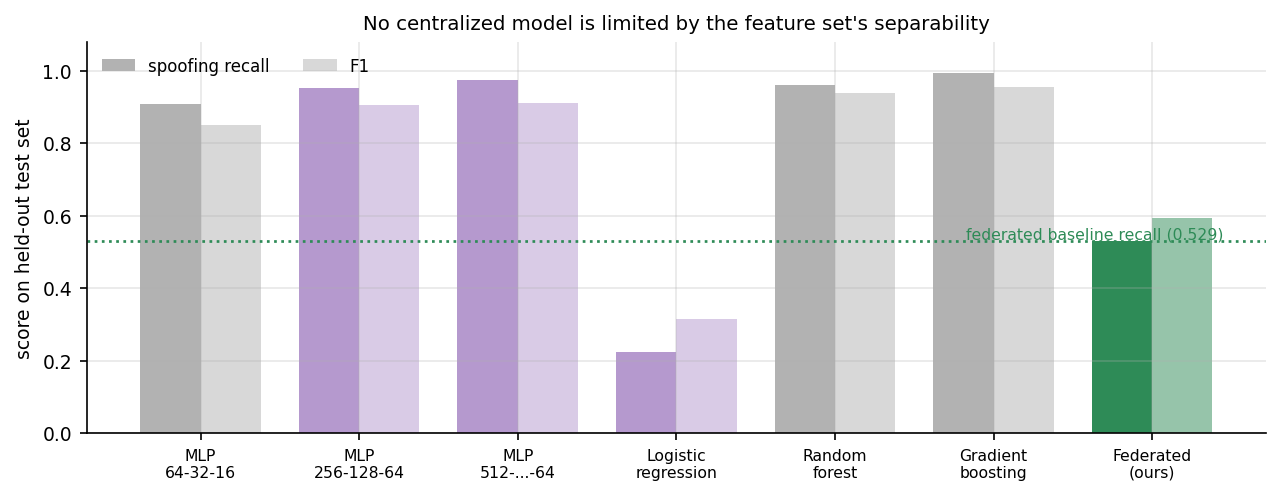
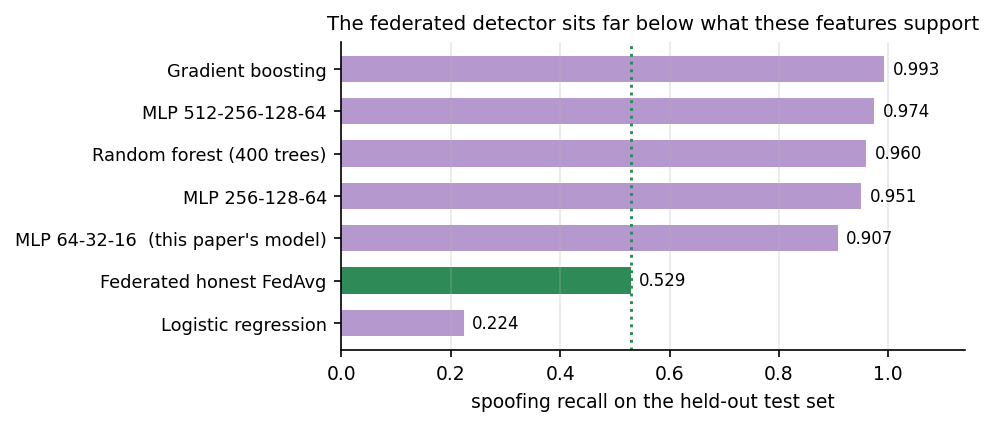
week12: redraw the ceiling figure and tighten table typography
Figure. The detector-ceiling chart was seven categories of paired
vertical bars inside a 3.4in column, which forced the model names to
rotate and shrink past legibility. Wrong chart form for the space:
turned horizontal so each name reads left to right at full size,
dropped the F1 series since the table carries it and recall alone makes
the point, sorted by value, and labelled each bar directly.

Sorting exposed a factual error in the draft title, which read "every
centralized model clears the federated baseline". Logistic regression
does not (0.224 against 0.529); it cannot represent the boundary. Title
and caption now say what is actually drawn.

Tables. Two changes that separate these from published ones:

- Numeric columns were centred, so with mixed signs (+0.2415 beside
  -0.0265) and mixed widths (1.0 beside 204.4) the decimal points sat
  ragged. Right-aligned throughout; every value in a column already
  carries the same decimal count, so the decimals now line up.
- The non-IID table split its condition label across three body rows by
  hand. Replaced with multirow, which is the proper tool and centres
  the label against its block.

Also trimmed five captions that had grown to four or five lines
explaining methodology that belongs in the body.

diff --git a/weeks/week12-paper/main.tex b/weeks/week12-paper/main.tex
@@ -11,6 +11,7 @@
 \usepackage{graphicx}
 \usepackage{cite}
 \usepackage{booktabs}
+\usepackage{multirow}
 
 
 \hyphenation{op-tical net-works semi-conduc-tor IEEE-Xplore}
@@ -388,12 +389,12 @@ The case for behavioral trust therefore does not rest on the IID headline number
 
 \begin{table*}[!t]
 \renewcommand{\arraystretch}{1.25}
-\caption{Comparison With Published Baselines on an Identical Pipeline (mean $\pm$ std, $n=3$). Raw BSR Is Reported Beside Lift Throughout. Trust Is Normalized so Uniform Is $0.100$; ``Detect'' and ``False-Flag'' Are the Fractions of Attacker and Honest Client-Rounds Held Below Half the Uniform Weight. Krum Makes a Selection Rather Than a per-Client Trust Assignment, so a False-Flag Rate Is Not Comparably Defined for It.}
+\caption{Comparison With Published Baselines on an Identical Pipeline (mean $\pm$ std, $n=3$). ``Detect'' and ``False-Flag'' Are the Fractions of Attacker and Honest Client-Rounds Held Below Half the Uniform Weight; Krum Selects Rather Than Scores, so a False-Flag Rate Is Not Defined for It.}
 \label{tab:benchmark}
 \centering
 \footnotesize
 \setlength{\tabcolsep}{3.5pt}
-\begin{tabular}{@{}l cccc cc cc c@{}}
+\begin{tabular}{@{}l rrrr rr rr r@{}}
 \toprule
 \textbf{Method} & \textbf{Clean} & \textbf{Recall} & \textbf{F1} & \textbf{Bal.\ Acc} &
 \textbf{BSR} & \textbf{Lift} & \textbf{Detect} & \textbf{False-Flag} & \textbf{ms/round} \\
@@ -439,33 +440,36 @@ A fourth level ($\alpha = 1$) was also run and is in the artifact. There the bas
 
 \begin{table*}[!t]
 \renewcommand{\arraystretch}{1.2}
-\caption{Non-IID Sweep Over Client Class-Ratio Skew (mean $\pm$ std, $n=3$). Uniform Trust Is $0.100$. Rules Without a per-Client Weight Have No Detection or False-Flag Rate. Clean Accuracy, and the $\alpha=1$ Condition Whose Honest Baseline Has Already Degraded to $0.232$ Recall, Are in the Exported CSV.}
+\caption{Non-IID Sweep Over Client Class-Ratio Skew (mean $\pm$ std, $n=3$). Uniform Trust Is $0.100$. Clean Accuracy and a Fourth, More Severe Condition Are in the Exported CSV.}
 \label{tab:noniid}
 \centering
 \footnotesize
 \setlength{\tabcolsep}{3.5pt}
-\begin{tabular}{@{}ll ccc cc cc@{}}
+\begin{tabular}{@{}ll rrr rr rr@{}}
 \toprule
 \textbf{Condition} & \textbf{Method} & \textbf{Recall} & \textbf{BSR} & \textbf{Lift} &
 \textbf{Detect} & \textbf{False-Flag} & \textbf{Atk trust} & \textbf{Hon trust} \\
 \midrule
-IID & Honest FedAvg (no attack) & $0.5292$ & $0.6367$ & $+0.0000$ & --- & --- & --- & --- \\
+\multirow{6}{*}{IID}
+    & Honest FedAvg (no attack) & $0.5292$ & $0.6367$ & $+0.0000$ & --- & --- & --- & --- \\
     & FedAvg (attacked)         & $0.3641$ & $0.8782$ & $+0.2415$ & --- & --- & --- & --- \\
     & Coordinate-wise median    & $0.5008$ & $0.7013$ & $+0.0646$ & --- & --- & --- & --- \\
     & FLTrust                   & $0.4687$ & $0.7154$ & $+0.0787$ & $84.7\%$ & $0.0\%$ & $0.0390$ & $0.1152$ \\
     & Behavioral trust (ours)   & $0.5307$ & $0.6406$ & $+0.0039$ & $100\%$ & $0.3\%$ & $0.0001$ & $0.1250$ \\
     & Trust + median (ours)     & $0.5560$ & $0.6101$ & $-0.0265$ & $100\%$ & $0.3\%$ & $0.0001$ & $0.1250$ \\
 \midrule
-Skew      & Honest FedAvg (no attack) & $0.4937$ & $0.6788$ & $+0.0000$ & --- & --- & --- & --- \\
-$\alpha{=}10$ & FedAvg (attacked)     & $0.3461$ & $0.9370$ & $+0.2583$ & --- & --- & --- & --- \\
-(mild)    & Coordinate-wise median    & $0.4487$ & $0.7498$ & $+0.0710$ & --- & --- & --- & --- \\
+\multirow{6}{*}{\shortstack[l]{Skew\\$\alpha{=}10$\\(mild)}}
+          & Honest FedAvg (no attack) & $0.4937$ & $0.6788$ & $+0.0000$ & --- & --- & --- & --- \\
+          & FedAvg (attacked)         & $0.3461$ & $0.9370$ & $+0.2583$ & --- & --- & --- & --- \\
+          & Coordinate-wise median    & $0.4487$ & $0.7498$ & $+0.0710$ & --- & --- & --- & --- \\
           & FLTrust                   & $0.4639$ & $0.7329$ & $+0.0542$ & $65.3\%$ & $8.7\%$ & $0.0429$ & $0.1143$ \\
           & Behavioral trust (ours)   & $0.3758$ & $0.9162$ & $+0.2374$ & $0.0\%$ & $0.3\%$ & $0.0950$ & $0.1013$ \\
           & Trust + median (ours)     & $0.4555$ & $0.7435$ & $+0.0647$ & $8.3\%$  & $2.1\%$ & $0.0942$ & $0.1014$ \\
 \midrule
-Skew      & Honest FedAvg (no attack) & $0.4446$ & $0.7388$ & $+0.0000$ & --- & --- & --- & --- \\
-$\alpha{=}3$ & FedAvg (attacked)      & $0.2983$ & $0.9843$ & $+0.2455$ & --- & --- & --- & --- \\
-(moderate) & Coordinate-wise median   & $0.3609$ & $0.8434$ & $+0.1046$ & --- & --- & --- & --- \\
+\multirow{6}{*}{\shortstack[l]{Skew\\$\alpha{=}3$\\(moderate)}}
+          & Honest FedAvg (no attack) & $0.4446$ & $0.7388$ & $+0.0000$ & --- & --- & --- & --- \\
+          & FedAvg (attacked)         & $0.2983$ & $0.9843$ & $+0.2455$ & --- & --- & --- & --- \\
+          & Coordinate-wise median    & $0.3609$ & $0.8434$ & $+0.1046$ & --- & --- & --- & --- \\
           & FLTrust                   & $0.4468$ & $0.7534$ & $+0.0146$ & $59.7\%$ & $22.6\%$ & $0.0434$ & $0.1141$ \\
           & Behavioral trust (ours)   & $0.2979$ & $0.9870$ & $+0.2482$ & $0.0\%$ & $0.0\%$ & $0.1025$ & $0.0994$ \\
           & Trust + median (ours)     & $0.3618$ & $0.8390$ & $+0.1002$ & $0.0\%$ & $0.0\%$ & $0.1023$ & $0.0994$ \\
@@ -493,12 +497,12 @@ One condition did not behave as intended and is reported as such. Raising model-
 
 \begin{table}[!t]
 \renewcommand{\arraystretch}{1.2}
-\caption{Does the Median Layer Help When Trust Scoring Degrades? (mean $\pm$ std, $n=3$). The Final Two Rows Are the Skew Conditions of Section~\ref{subsec:noniid}, Where the Trust Layer Fails Outright.}
+\caption{Does the Median Layer Help When Trust Scoring Degrades? (mean, $n=3$). The Final Two Rows Are the Skew Conditions of Section~\ref{subsec:noniid}, Where the Trust Layer Fails Outright.}
 \label{tab:mediannec}
 \centering
 \footnotesize
 \setlength{\tabcolsep}{3pt}
-\begin{tabular}{@{}l cccc@{}}
+\begin{tabular}{@{}l rrrr@{}}
 \toprule
 \textbf{Condition} & \textbf{Undefended} & \textbf{Trust only} & \textbf{Full} & \textbf{Median benefit} \\
 \midrule
@@ -529,7 +533,7 @@ One baseline resists this failure and we report it plainly: single-Krum stays be
 \centering
 \footnotesize
 \setlength{\tabcolsep}{4pt}
-\begin{tabular}{@{}l cccc@{}}
+\begin{tabular}{@{}l rrrr@{}}
 \toprule
 \textbf{Method} & \textbf{1 attacker} & \textbf{2} & \textbf{3} & \textbf{4} \\
 \midrule
@@ -706,12 +710,12 @@ it; establishing that is the most concrete piece of future work this paper leave
 
 \begin{table}[!t]
 \renewcommand{\arraystretch}{1.25}
-\caption{Centralized Detector Ceiling. All Rows Are Trained on the Full Client Pool With No Federation, No Attack and No Privacy Constraint, so They Upper-Bound What the Federated System Could Reach. Balanced Accuracy and Confusion Counts Are in the Exported CSV.}
+\caption{Centralized Detector Ceiling. Every Row Is Trained on the Full Client Pool With No Federation, No Attack and No Privacy Constraint, so All of Them Upper-Bound the Federated System.}
 \label{tab:ceiling}
 \centering
 \footnotesize
 \setlength{\tabcolsep}{3.5pt}
-\begin{tabular}{@{}l cccc@{}}
+\begin{tabular}{@{}l rrrr@{}}
 \toprule
 \textbf{Model} & \textbf{Clean} & \textbf{Recall} & \textbf{F1} & \textbf{BSR} \\
 \midrule
@@ -730,7 +734,7 @@ Gradient boosting          & $\mathbf{0.9615}$ & $\mathbf{0.9929}$ & $\mathbf{0.
 \begin{figure}[!t]
 \centering
 \includegraphics[width=3.4in]{figures/fig_detector_ceiling.png}
-\caption{Centralized detector ceiling. Every centralized non-linear model far exceeds the federated baseline (dotted), so the weak spoofing recall reported throughout this paper reflects the federated training configuration rather than the separability of the feature set. This bounds what the security claims may assert: the paper supports removal of attacker-induced lift, not operational detection reliability.}
+\caption{Centralized detector ceiling, spoofing recall on the held-out test set. Every centralized non-linear model far exceeds the federated baseline (dotted); only logistic regression, which cannot represent the decision boundary, falls below it. The weak recall reported throughout this paper therefore reflects the federated training configuration, not the separability of the feature set.}
 \label{fig:ceiling}
 \end{figure}
 
@@ -759,12 +763,12 @@ subsample or batched across rounds; we have not tested either, and make no claim
 
 \begin{table}[!t]
 \renewcommand{\arraystretch}{1.25}
-\caption{Server-Side Cost on Both Denominators (ten clients, mean of three timed rounds). A Sequential Round Sums Every Client's Training; a Parallel Round Is Bounded by the Slowest Client and Is the Realistic Denominator.}
+\caption{Server-Side Cost on Both Denominators (ten clients, mean of three timed rounds). A Parallel Round Is Bounded by the Slowest Client and Is the Realistic Denominator.}
 \label{tab:cost}
 \centering
 \footnotesize
 \setlength{\tabcolsep}{4pt}
-\begin{tabular}{@{}l ccc@{}}
+\begin{tabular}{@{}l rrr@{}}
 \toprule
 \textbf{Defense} & \textbf{ms/round} & \textbf{\% sequential} & \textbf{\% parallel} \\
 \midrule

diff --git a/weeks/week12-paper/replot.py b/weeks/week12-paper/replot.py
@@ -86,23 +86,43 @@ SHORT_M = {
     'Hist gradient boosting': 'Gradient\nboosting',
     'Federated honest FedAvg (paper baseline)': 'Federated\n(ours)',
 }
-names = [SHORT_M.get(m, m) for m in c['Model']]
+# Horizontal, single-series. Seven categories of vertical bars cannot fit a
+# 3.4in column without rotating the labels to the point of illegibility;
+# turning the chart on its side lets each model name read at full size. F1 is
+# dropped because the table carries it and recall alone makes the point.
+LONG_M = {
+    'Logistic regression': 'Logistic regression',
+    'MLP 64-32-16 (paper model)': "MLP 64-32-16  (this paper's model)",
+    'MLP 256-128-64 (wider)': 'MLP 256-128-64',
+    'MLP 512-256-128-64 (deeper)': 'MLP 512-256-128-64',
+    'Random forest (400 trees)': 'Random forest (400 trees)',
+    'Hist gradient boosting': 'Gradient boosting',
+    'Federated honest FedAvg (paper baseline)': 'Federated honest FedAvg',
+}
 rec = c['Spoofing Recall'].astype(float).values
-f1 = c['F1'].astype(float).values
-xs = np.arange(len(names))
-# CSV order is: 3 MLPs, logistic regression, random forest, boosting, federated
-cols = ['#B599CE'] * 3 + ['#B2B2B2'] * 3 + ['seagreen']
-fig, ax = plt.subplots(figsize=(8.6, 3.4))
-ax.bar(xs - 0.19, rec, 0.38, color=cols, label='spoofing recall')
-ax.bar(xs + 0.19, f1, 0.38, color=cols, alpha=.5, label='F1')
-ax.axhline(rec[-1], color='seagreen', ls=':', lw=1.3)
-ax.annotate(f'federated baseline recall ({rec[-1]:.3f})', (len(names) - 0.55, rec[-1]),
-            ha='right', va='bottom', fontsize=7.5, color='seagreen')
-ax.set_xticks(xs); ax.set_xticklabels(names, fontsize=7.5)
-ax.set_ylabel('score on held-out test set')
-ax.set_ylim(0, 1.08)
-ax.set_title("No centralized model is limited by the feature set's separability", fontsize=9.5)
-ax.legend(fontsize=8, ncol=2, loc='upper left')
+names = [LONG_M.get(m, m) for m in c['Model']]
+order = np.argsort(rec)                      # federated ends up at/near the bottom
+names = [names[i] for i in order]
+rec = rec[order]
+is_fed = ['Federated' in n for n in names]
+cols = ['seagreen' if f else '#B599CE' for f in is_fed]
+
+fig, ax = plt.subplots(figsize=(6.6, 2.9))
+ys = np.arange(len(names))
+ax.barh(ys, rec, 0.62, color=cols)
+base = rec[[i for i, f in enumerate(is_fed) if f][0]]
+ax.axvline(base, color='seagreen', ls=':', lw=1.4)
+for yv, v in zip(ys, rec):
+    ax.annotate(f'{v:.3f}', (v, yv), xytext=(4, 0), textcoords='offset points',
+                va='center', fontsize=8)
+ax.set_yticks(ys); ax.set_yticklabels(names, fontsize=8.5)
+ax.set_xlabel('spoofing recall on the held-out test set')
+ax.set_xlim(0, 1.14)
+ax.grid(axis='y', visible=False)
+# NB: logistic regression sits below the baseline, so the title must not claim
+# "every" model clears it; the point is the gap, not a universal.
+ax.set_title('The federated detector sits far below what these features support',
+             fontsize=9.5)
 plt.tight_layout()
 plt.savefig(F.RESULTS / 'fig_detector_ceiling.png', bbox_inches='tight')
 print('rewrote results/fig_detector_ceiling.png')
